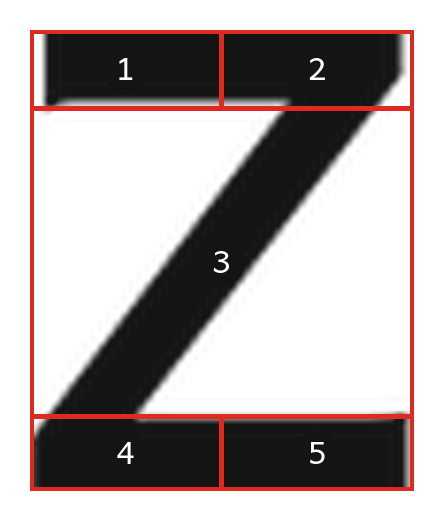
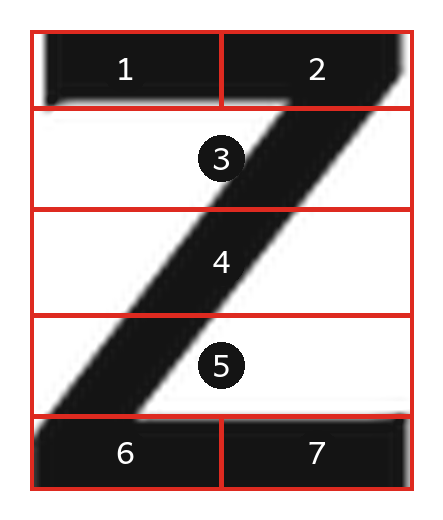
z: split the diagonal into three bands (#190)
The diagonal was one full-width zone (3), so any point inside it
satisfied the whole stroke instead of requiring the pen to travel
through it. Split into three full-width bands (y 0.17-0.39, 0.39-0.62,
0.62-0.84); the bars are unchanged, and the bottom bar zones renumber
to 6 and 7. z stays a single stroke; start rectangle and
minRequiredStrokes untouched.

Updated the approved JSON spec, re-rendered png/z.png and the contact
sheet, bumped z's zone count (5 -> 7) in APPROVED.md, and updated the
registry test that pinned the old 5-zone shape.

python3 scripts/glyph_sections.py z --check-only passes for both the
registry and the approved spec. flutter test: 719 passed, 0 failed
(run twice).

diff --git a/test/letter_formation_registry_test.dart b/test/letter_formation_registry_test.dart
@@ -278,8 +278,10 @@ void main() {
       expect(letterFormationRegistry['w']!.strokes[0].waypoints, isEmpty);
     });
 
-    test('z: sections are 5 bespoke rectangles (top bar → diagonal → base '
-        'bar, with the base bar reaching the true bottom-right corner)', () {
+    test('z: sections are 7 bespoke rectangles (top bar → diagonal → base '
+        'bar, with the base bar reaching the true bottom-right corner and '
+        'the diagonal split into three bands so the stroke must travel '
+        'through the whole diagonal in order)', () {
       final sections = letterFormationRegistry['z']!.strokes[0].sections;
       expect(sections, [
         WaypointSection(
@@ -306,11 +308,29 @@ void main() {
             minX: 0.00,
             maxX: 1.00,
             minY: 0.17,
-            maxY: 0.84,
+            maxY: 0.39,
           ),
         ),
         WaypointSection(
           number: 4,
+          rect: const StrokeStartRect(
+            minX: 0.00,
+            maxX: 1.00,
+            minY: 0.39,
+            maxY: 0.62,
+          ),
+        ),
+        WaypointSection(
+          number: 5,
+          rect: const StrokeStartRect(
+            minX: 0.00,
+            maxX: 1.00,
+            minY: 0.62,
+            maxY: 0.84,
+          ),
+        ),
+        WaypointSection(
+          number: 6,
           rect: const StrokeStartRect(
             minX: 0.00,
             maxX: 0.50,
@@ -319,7 +339,7 @@ void main() {
           ),
         ),
         WaypointSection(
-          number: 5,
+          number: 7,
           rect: const StrokeStartRect(
             minX: 0.50,
             maxX: 1.00,

diff --git a/lib/models/letter_formation_registry.dart b/lib/models/letter_formation_registry.dart
@@ -735,11 +735,29 @@ final Map<String, LetterFormationData> letterFormationRegistry = {
               minX: 0,
               maxX: 1,
               minY: 0.17,
-              maxY: 0.84,
+              maxY: 0.39,
             ),
           ),
           WaypointSection(
             number: 4,
+            rect: const StrokeStartRect(
+              minX: 0,
+              maxX: 1,
+              minY: 0.39,
+              maxY: 0.62,
+            ),
+          ),
+          WaypointSection(
+            number: 5,
+            rect: const StrokeStartRect(
+              minX: 0,
+              maxX: 1,
+              minY: 0.62,
+              maxY: 0.84,
+            ),
+          ),
+          WaypointSection(
+            number: 6,
             rect: const StrokeStartRect(
               minX: 0,
               maxX: 0.5,
@@ -748,7 +766,7 @@ final Map<String, LetterFormationData> letterFormationRegistry = {
             ),
           ),
           WaypointSection(
-            number: 5,
+            number: 7,
             rect: const StrokeStartRect(
               minX: 0.5,
               maxX: 1,

diff --git a/docs/zone_review/completion_audit/approved/APPROVED.md b/docs/zone_review/completion_audit/approved/APPROVED.md
@@ -4,4 +4,4 @@ These 24 designs were reviewed one letter at a time and approved by Andrew on 26
 
 Zone counts:
 
-- a (7), b (7), c (5), d (7), e (9), f (6), g (8), i (3), j (4), k (7), l (3), m (9), o (7), p (7), q (7), r (5), s (6), t (6), u (8), v (8), w (16), x (9), y (7), z (5)
+- a (7), b (7), c (5), d (7), e (9), f (6), g (8), i (3), j (4), k (7), l (3), m (9), o (7), p (7), q (7), r (5), s (6), t (6), u (8), v (8), w (16), x (9), y (7), z (7)
